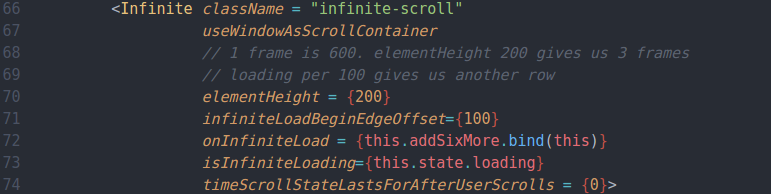
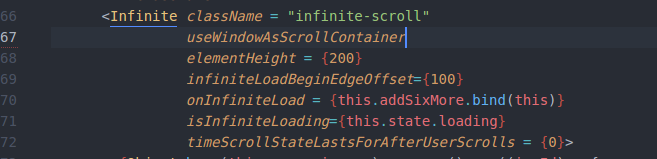
README fixes

diff --git a/frontend/components/stream/stream.jsx b/frontend/components/stream/stream.jsx
@@ -65,8 +65,6 @@ class Stream extends React.Component {
       <ul className = "stream-frame">
       <Infinite className = "infinite-scroll"
                 useWindowAsScrollContainer
-                // 1 frame is 600. elementHeight 200 gives us 3 frames
-                // loading per 100 gives us another row
                 elementHeight = {200}
                 infiniteLoadBeginEdgeOffset={100}
                 onInfiniteLoad = {this.addSixMore.bind(this)}

diff --git a/README.md b/README.md
@@ -14,42 +14,46 @@ It is built upon Ruby on Rails backend, PostgreSQL database, and React & Redux a
 ## Features && Implementation
 
 ### Static-Page App
-Pix is a single-page application. From log-in to fun stuff that Pix has to offer,
-a user is able to experience everything on a root page.
+Pix is a single-page application.
+From login to rest of the features that Pix has to offer, a user is able to experience everything without moving from the root index.
 
 ![login-page]
 [login-page]: ./docs/images/login_page.png
 
-This was made possible with React router which renders different components based on url changes.
+This was made possible by React Router which renders different components based on url changes.
 
 ![logged-in-page]
 [logged-in-page]: ./docs/images/logged_in_page.png
 
 ### Menu
-Menu is the a key component of Pix which allows users to navigate through the application.
-Each item on the menu triggers location change on the browser. And based on these changes, Stream populates itself with different types of Frames.
+`Menu` allows users to navigate through the application.
+Each item on the menu triggers location changes.
+
+And based on these changes, `Stream` populates itself with appropriate `Frames`.
 
 ![menu1]
 [menu1]: ./docs/images/menu1.png
 
-Menu has its own rendering logic. Making use of React Component's state-render relationship,
+Menu has its own rendering logic.
+
+Making use of React Component's state-render relationship,
 Menu displays a new set of options when the gear-button is clicked.
 
 ![menu2]
 [menu2]: ./docs/images/menu2.png
 
 ### Stream
-Stream is a component that listens to location path changes through React's componentDidMount() and componentWillReceiveProps(nextProps).
+`Stream` is a component that listens to location changes in `componentDidMount()` and `componentWillReceiveProps(nextProps)`.
 
 When changes are detected, Stream dispatches `requestImages` action.
 
-Dispatched actions go through the Redux cycle which involves middlewares (for ajax requests) and reducers (for store mutation).
+Dispatched actions go through the Redux cycle which involves middleware (for ajax requests) and reducers (for store mutation).
 
 ![stream]
 [stream]: ./docs/images/stream.png
 
-After a successful image request, the store now contains appropriate `image objects`.
-An image-object attributes include user information, comments, and likes.
+After a successful image request, the store contains an appropriate set of `image objects`.
+An image-object's attributes include user information, comments, and likes.
 
 ## Frame
 
@@ -69,48 +73,56 @@ A frame contains:
 
 ### DeleteButton
 
-When an image-object is passed down to a frame from the stream, the respective DeleteButton
-detects whether the current user is also the one who submitted the image. If it is the case,
-DeleteButton gives the user an option to delete the frame. When the button is clicked. Confirmation Component is rendered, prompting if the user is sure about the such a behavior.
+When an image-object is passed down to a frame, DeleteButton figures out whether the current user is also the one who submitted the image. If it is the case, DeleteButton allows the user to have the option of deleting the frame.
 
-When confirmed, DeleteButton dispatches `deleteThis` action. In the image middleware, an Ajax request is made to delete the requested image. Associated Likes and Comments are automatically deleted with the image at the backend level. Then, in image reducer, the requested image is eliminated from the store, making it possible for the user to see that the image has been successfully deleted.
+When the button is clicked, Confirmation Component is rendered, prompting if the user is sure about his or her action. When confirmed, DeleteButton dispatches `deleteThis` action.
+
+From `Image Middleware`, an Ajax request is made to delete the requested image. Associated `Likes` and `Comments` are automatically deleted with the image at the back-end level. Then, in `Image Reducer`, the requested image is eliminated from the store, making it possible for the user to see that the image has been successfully deleted.
 
 ### Like / Unlike
 
-A Frame passes down an array of users who liked its photo. Then, Like component stores this information in its state. If the current user is included in its state, Like generates a Like button. Unlike button is generated otherwise. When each of these buttons are clicked, Like dispatches `processLike` action.
+As `Frame` passes down the users who liked its photo, `Like` stores these users into its state. If the current user is included in the state, Like generates a `Like button` and an `Unlike button` otherwise.
+
+When each of these buttons is clicked, `Like` dispatches `processLike` action.
 
 ### CommentSection
 
-CommentSection component receives all the comments from Frame. These comments are stored in an array as a state of the component. Each comment is rendered based on their created date (top-to-bottom / from latest to oldest). Also, each comment comes with a DeleteButton that behaves very similarly to Frame's DeleteButton.
+When `CommentSection` mounts, the component receives `comments` from Frame that belongs to the `image`. These comments are stored in an array as a state.
+
+Each comment is rendered (top-to-bottom / from latest to oldest) based on their created date . Like `Frame`, each comment comes with a `DeleteButton`.
 
 ### CommentSubmit
 
-CommentSubmit belongs directly to Frame, not CommentSection. This was to avoid actions and props from getting too deep within the project. Also, from a developer's point of view, it made more sense for a user to be able to submit their comments regardless a CommentSection is properly rendered.
+`CommentSubmit` belongs directly to `Frame`, not `CommentSection`.
+This is to prevent `actions` and `props` from getting too deep within the project. Also, from a developer's point of view, it made sense for users to be able to submit their comments indifferent to CommentSection's `state` (separation of concerns).
 
-Due to its structure, comment submission logically had to be placed in Frame. Hence, Frame has a state named `commentBody` which can be overwritten by its write() method. When a comment is submitted, Frame dispatches `postComment` action. The new comment goes through the Redux cycle and reaches back to Frame's props. This props is then passed down to CommentSection, and finally, CommentSection updates its state as described above.
+Due to its structure, comment submission logic had to be placed in `Frame`.
+
+Frame has a state `commentBody` which can be overwritten by its `write()` method.
+
+When a comment is submitted, Frame dispatches `postComment` action and the new comment goes through the Redux cycle, reaching back to Frame's props. This `newProps` is then passed down to `CommentSection`, updating its state as described above.
 
 ## User Search
 ![search]
 [search]: ./docs/images/search.png
 
-UserSearch allows the user to search other users. When a part of user name is typed, UserSearch auto completes the user name and generates a list of closest matches below its input area.
-UserSearch listens for any input changes, and dispatches `requestUsers` action.
+`UserSearch` allows the user to search other users. When the `input` changes, `UserSearch` auto completes the `input` and generates a list of closest matches below its input area by dispatching `requestUsers` action.
 
 ## Profile, UserBio, and Follow
 
-Whenever a user's name is clicked on anywhere on the page, it triggers a url change which leads to clicked user's profile page.
+Whenever a user's name is clicked, `hashHistory` or `Link` triggers an url change which leads to the user `profile` page.
 
 ![profile]
 [profile]: ./docs/images/profile.png
 
-The profile page includes, username, number of followers and of the people whom this user follows, Follow/Unfollow button, and the user's images.
+Profile page includes, the user's name, number of followers, number of the people whom this user follows, Follow/Unfollow button.
 
-Follow/Unfollow buttons dispatch `requestFollow` when they are clicked.
+Similar to `Like`, Follow/Unfollow buttons dispatch `requestFollow` when they are clicked.
 
 ## Infinite Scroll
 
 Last notable feature of Pix is Stream's Infinite Scroll. React's Infinite Scroll allows store to
-request images in increments based on a user's scrolling behaviors.
+request images in increments based on the user's scrolling behaviors.
 
 ![infinite]
 [infinite]: ./docs/images/infinite.png
